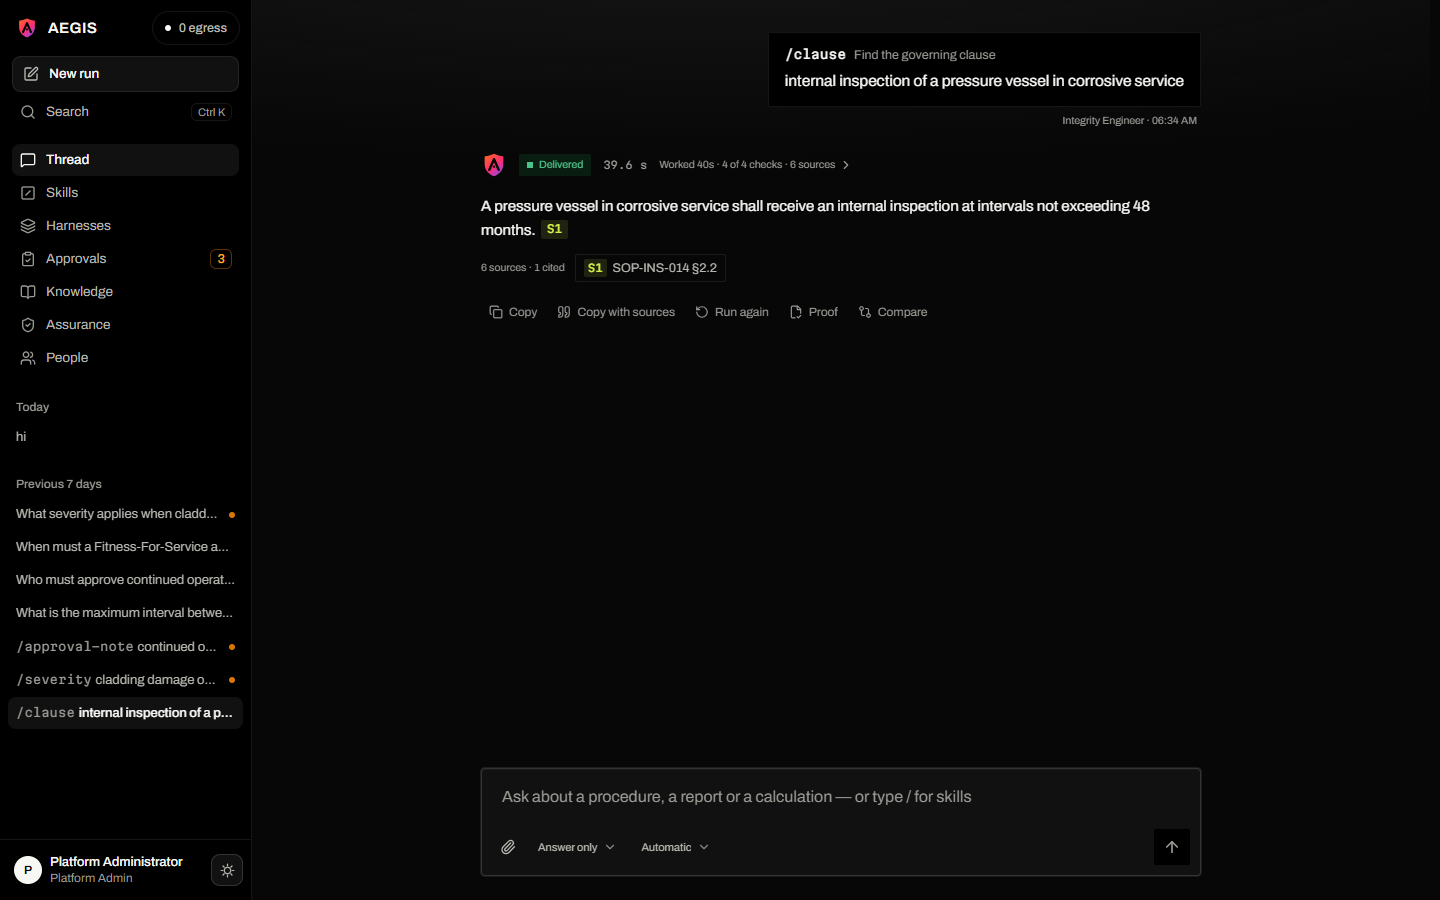
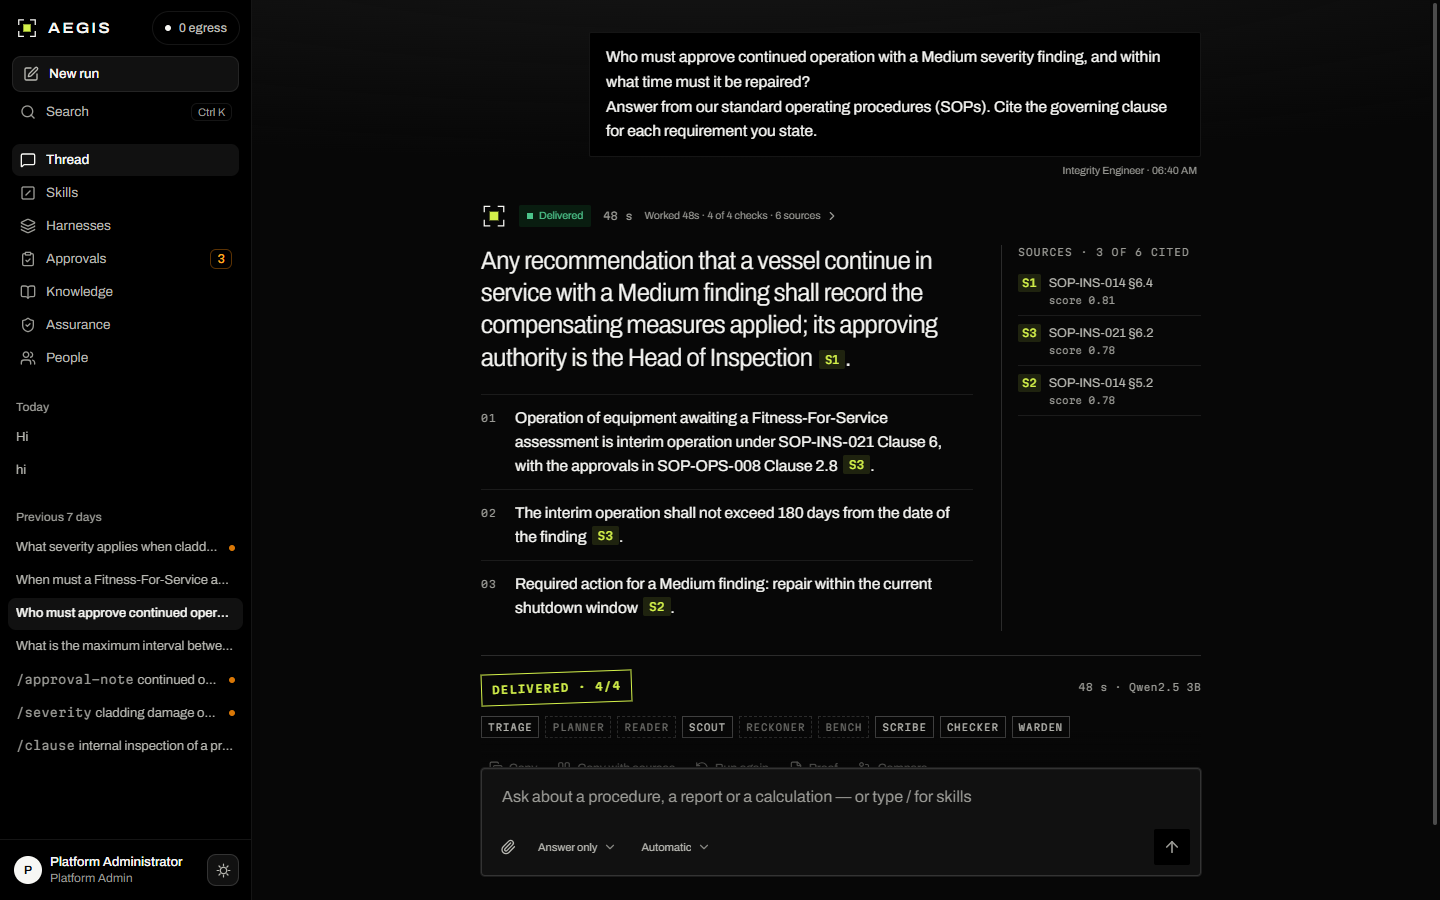
Landing reads as chapters: numbered nav follows the scroll, a reading line, tighter sections, a Hi-Vis close, fresh screenshots

diff --git a/frontend/app/(marketing)/landing.css b/frontend/app/(marketing)/landing.css
@@ -23,7 +23,7 @@
 /* ==================================================================== */
 @layer components {
   /* ---- tokens ---------------------------------------------------------- */
-  .lp {
+  .lp { counter-reset: lp-chapter;
     --lp-bg: #070707;
     --lp-s0: #000000;
     --lp-s1: #111111;
@@ -114,6 +114,11 @@
     transition: color var(--lp-tick) ease;
   }
   .lp-nav a:hover, .lp-nav-link:hover { color: var(--lp-fg); }
+  .lp-nav a .n { margin-right: 7px; color: var(--lp-fg-3); transition: color 0.2s ease; }
+  .lp-nav a[aria-current] { color: var(--lp-fg); }
+  .lp-nav a[aria-current] .n { color: var(--lp-lime); }
+  /* Reading progress: the header's foot fills in lime as the page is read. */
+  .lp-progress { position: absolute; left: 0; right: 0; bottom: 0; height: 1px; background: var(--lp-lime); transform-origin: left; transform: scaleX(0); pointer-events: none; }
   .lp-header .end { margin-left: auto; display: flex; align-items: center; gap: 20px; }
   @media (max-width: 1080px) { .lp-nav { display: none; } }
   @media (max-width: 420px) { .lp-header .end .lp-nav-link { display: none; } }
@@ -212,7 +217,8 @@
   /* ==================================================================== */
   /* SECTIONS, AND THE CHAPTER RULE BETWEEN THEM                           */
   /* ==================================================================== */
-  .lp-section { position: relative; padding-block: clamp(72px, 9vw, 128px); scroll-margin-top: 64px; }
+  .lp-section { position: relative; padding-block: clamp(56px, 6vw, 88px); scroll-margin-top: 64px; counter-increment: lp-chapter; }
+  .lp-section .lp-head .lp-eyebrow::before { content: counter(lp-chapter, decimal-leading-zero) ' / 04 · '; color: var(--lp-fg-3); }
   .lp-rule {
     position: absolute; top: 0; left: 50%; display: grid; grid-template-columns: repeat(12, minmax(0, 1fr));
     width: min(calc(100% - 2 * var(--lp-pad)), calc(var(--lp-maxw) - 2 * var(--lp-pad))); height: 1px; transform: translateX(-50%);
@@ -241,7 +247,7 @@
   /* THE PROOF SEQUENCE                                                    */
   /* ==================================================================== */
   .lp-pf { margin: clamp(40px, 5vw, 64px) 0 0; padding: 0; list-style: none; }
-  .lp-pf .step { display: grid; grid-template-columns: minmax(0, 4fr) minmax(0, 8fr); gap: 32px clamp(24px, 4vw, 56px); padding: clamp(32px, 4vw, 48px) 0; border-top: 1px solid var(--lp-line); }
+  .lp-pf .step { display: grid; grid-template-columns: minmax(0, 4fr) minmax(0, 8fr); gap: 24px clamp(24px, 4vw, 56px); padding: clamp(24px, 3vw, 36px) 0; border-top: 1px solid var(--lp-line); }
   .lp-pf .cap .k { margin: 0; font-family: var(--font-mono); font-size: 11px; letter-spacing: 0.12em; text-transform: uppercase; color: var(--lp-fg-3); }
   .lp-pf .cap .k span { margin-right: 8px; color: var(--lp-lime); }
   .lp-pf .cap .h { margin: 12px 0 0; font-size: clamp(1.6rem, 1.1rem + 1.2vw, 2.1rem); line-height: 1.08; color: var(--lp-fg); }
@@ -462,12 +468,23 @@
   .lp-footer-base { display: flex; flex-wrap: wrap; justify-content: space-between; gap: 8px 24px; padding-block: 16px; border-top: 1px solid var(--lp-line-3); font-family: var(--font-mono); font-size: 10px; letter-spacing: 0.08em; text-transform: uppercase; color: var(--lp-fg-3); }
   /* The name at 6% ink, sized to the viewport so the whole word always fits,
      fading into the ground towards its foot. */
-  .lp-giant { display: flex; justify-content: center; margin-top: clamp(4px, 1vw, 16px); overflow: hidden; pointer-events: none; user-select: none; }
-  .lp-giant span {
-    display: block; font-size: min(20.5vw, 17rem); font-weight: 800; font-stretch: 125%; font-variation-settings: 'wdth' 125; line-height: 0.8; letter-spacing: -0.02em; white-space: nowrap;
+  .lp-giant { position: relative; display: flex; justify-content: center; margin-top: clamp(4px, 1vw, 16px); overflow: hidden; pointer-events: none; user-select: none; }
+  .lp-giant .word {
+    position: relative; display: block; font-size: min(19vw, 16rem); font-weight: 800; font-stretch: 125%; font-variation-settings: 'wdth' 125; line-height: 0.8; letter-spacing: -0.02em; white-space: nowrap;
     color: rgb(247 247 244 / 0.06);
     -webkit-mask-image: linear-gradient(to bottom, #000 35%, transparent 100%); mask-image: linear-gradient(to bottom, #000 35%, transparent 100%);
   }
+  /* The seal: the mark's lime square, set as the word's full stop. */
+  .lp-giant .seal { display: inline-block; width: 0.14em; height: 0.14em; margin-left: 0.05em; background: var(--lp-lime); opacity: 0.55; vertical-align: baseline; }
+  .lp-giant .scan { position: absolute; left: 0; right: 0; top: 0; height: 1px; background: var(--lp-lime); opacity: 0; box-shadow: 0 -24px 32px 0 rgb(212 242 74 / 0.08); }
+  /* The close: the claim once more and the one action, on the page's rule. */
+  .lp-close { display: flex; flex-wrap: wrap; align-items: center; justify-content: space-between; gap: 20px 32px; padding-block: clamp(40px, 5vw, 64px); border-bottom: 1px solid var(--lp-line); }
+  .lp-close-title { margin: 0; font-size: clamp(2rem, 1.2rem + 2.6vw, 3.4rem); font-weight: 300; font-stretch: 88%; font-variation-settings: 'wdth' var(--lp-display-wdth); line-height: 1; letter-spacing: -0.035em; color: var(--lp-fg); }
+  .lp-close-title b { font-weight: 600; }
+  .lp-footer-grid a .out { display: inline-block; width: 12px; height: 12px; margin-left: 3px; vertical-align: -1px; opacity: 0.5; transition: opacity var(--lp-tick) ease, transform var(--lp-tick) ease; }
+  .lp-footer-grid a:hover .out { opacity: 1; transform: translate(1px, -1px); }
+  .lp-footer-grid a { text-decoration: underline; text-decoration-color: transparent; text-underline-offset: 3px; }
+  .lp-footer-grid a:hover { text-decoration-color: var(--lp-lime); }
   @media (max-width: 1000px) { .lp-footer-grid { grid-template-columns: repeat(2, minmax(0, 1fr)); } .lp-footer-grid > .brand { grid-column: 1 / -1; } }
   @media (max-width: 420px) { .lp-footer-grid { gap: 32px 20px; } }
 
@@ -664,3 +681,18 @@
 .lp .ae-btn:focus-visible { box-shadow: none; outline: 2px solid var(--lp-lime); outline-offset: 3px; }
 .lp .ae-tamper-block { border-radius: 2px; border-color: var(--lp-line); background: var(--lp-s0); }
 .lp .ae-tamper-link i { background: var(--lp-lime); }
+
+@layer components {
+  @media (prefers-reduced-motion: no-preference) {
+    .lp-giant[data-play='armed'] .seal { opacity: 0; }
+    .lp-giant[data-play='on'] .scan { animation: lp-giant-scan 1400ms cubic-bezier(0.65, 0, 0.35, 1) both; }
+    .lp-giant[data-play='on'] .seal { animation: lp-giant-seal 120ms steps(2, end) 1250ms both; }
+    @keyframes lp-giant-scan {
+      0% { top: 0; opacity: 0; }
+      10% { opacity: 1; }
+      90% { opacity: 1; }
+      100% { top: 100%; opacity: 0; }
+    }
+    @keyframes lp-giant-seal { from { opacity: 0; } to { opacity: 0.55; } }
+  }
+}

diff --git a/frontend/components/landing/landing-header.tsx b/frontend/components/landing/landing-header.tsx
@@ -12,18 +12,47 @@ import { Wordmark } from './wordmark'
  * Clear while the page is at its top; a near-opaque ground and a 1px rule
  * once anything has scrolled under it. No backdrop blur: a blurred sticky bar
  * repaints on every scroll frame.
+ *
+ * The page reads as chapters, and the header says which one is on screen:
+ * the anchors carry their chapter number and the current one is lit, and a
+ * 1px lime line along the header's foot fills as the page is read. Both
+ * follow the reader's own scroll, so neither moves on its own.
  */
 export function LandingHeader() {
   // `authenticated` is false on the server render and during the first load,
   // so the labels a cold visitor needs are the default.
   const { authenticated } = useRole()
   const [scrolled, setScrolled] = useState(false)
+  const [progress, setProgress] = useState(0)
+  const [current, setCurrent] = useState<string | null>(null)
 
   useEffect(() => {
-    const onScroll = () => setScrolled(window.scrollY > 8)
-    onScroll()
+    let frame = 0
+    const read = () => {
+      frame = 0
+      setScrolled(window.scrollY > 8)
+      const max = document.documentElement.scrollHeight - window.innerHeight
+      setProgress(max > 0 ? Math.min(1, window.scrollY / max) : 0)
+      // The chapter whose top has passed a third of the way down the screen.
+      const line = window.innerHeight / 3
+      let on: string | null = null
+      for (const item of NAV) {
+        const el = document.getElementById(item.href.slice(1))
+        if (el && el.getBoundingClientRect().top <= line) on = item.href
+      }
+      setCurrent(on)
+    }
+    const onScroll = () => {
+      if (!frame) frame = requestAnimationFrame(read)
+    }
+    read()
     window.addEventListener('scroll', onScroll, { passive: true })
-    return () => window.removeEventListener('scroll', onScroll)
+    window.addEventListener('resize', onScroll)
+    return () => {
+      window.removeEventListener('scroll', onScroll)
+      window.removeEventListener('resize', onScroll)
+      if (frame) cancelAnimationFrame(frame)
+    }
   }, [])
 
   return (
@@ -34,8 +63,11 @@ export function LandingHeader() {
         </Link>
 
         <nav aria-label="Sections" className="lp-nav">
-          {NAV.map((item) => (
-            <a key={item.href} href={item.href}>
+          {NAV.map((item, i) => (
+            <a key={item.href} href={item.href} aria-current={current === item.href ? 'location' : undefined}>
+              <span className="n" aria-hidden>
+                {String(i + 1).padStart(2, '0')}
+              </span>
               {item.label}
             </a>
           ))}
@@ -52,6 +84,7 @@ export function LandingHeader() {
           </Link>
         </div>
       </div>
+      <span aria-hidden className="lp-progress" style={{ transform: `scaleX(${progress})` }} />
     </header>
   )
 }

diff --git a/frontend/components/landing/landing-footer.tsx b/frontend/components/landing/landing-footer.tsx
@@ -1,16 +1,24 @@
 import Link from 'next/link'
-import { FOOTER } from './copy'
+import { ArrowUpRight } from 'lucide-react'
+import { FOOTER, HERO } from './copy'
 import { recordedEgress } from './landing-data'
 import { EgressChip } from './live-egress'
+import { FooterGiant } from './footer-giant'
 import { Wordmark } from './wordmark'
 
 /**
- * The page's close: a brand column and four columns of links on 1px rules,
- * a thin base row, and the name set huge at 6% ink, fading into the ground.
+ * The page's close, in the Hi-Vis voice.
+ *
+ * First the last word: the hero's claim once more, light with its key word
+ * heavy, and the one lime action. Then a brand column and four columns of
+ * links on 1px rules, a thin base row, and the name set huge at 6% ink with
+ * a lime seal, which the hero's scan line crosses once when it comes into
+ * view -- the page ends on the motion it began with.
  *
  * Every link resolves: the anchors are this page's sections, and every
- * GitHub link is a file checked on the branch it names (copy.ts). The chip is
- * the hero's egress reading, read live by the visitor's browser.
+ * GitHub link is a file checked on the branch it names (copy.ts); those
+ * leave the page and carry an arrow saying so. The chip is the hero's
+ * egress reading, read live by the visitor's browser.
  *
  * Not SiteFooter, which calls an authenticated health endpoint. There is no
  * theme switch: the public page is drawn on one ground, hi-vis night, whatever
@@ -20,6 +28,18 @@ export function LandingFooter() {
   return (
     <footer className="lp-footer">
       <div className="lp-shell">
+        <div className="lp-close">
+          <p className="lp-close-title">
+            {FOOTER.close.title} <b>{FOOTER.close.titleKey}</b>
+          </p>
+          <Link href={HERO.primary.href} className="lp-btn primary">
+            {HERO.primary.label}
+            <span className="ar" aria-hidden>
+              →
+            </span>
+          </Link>
+        </div>
+
         <div className="lp-footer-grid">
           <div className="brand">
             <Wordmark />
@@ -35,6 +55,7 @@ export function LandingFooter() {
                     {link.href.startsWith('http') ? (
                       <a href={link.href} rel="noreferrer" target="_blank">
                         {link.label}
+                        <ArrowUpRight className="out" aria-hidden />
                       </a>
                     ) : link.href.startsWith('#') ? (
                       <a href={link.href}>{link.label}</a>
@@ -53,9 +74,7 @@ export function LandingFooter() {
           <span>{FOOTER.bottomRight}</span>
         </div>
       </div>
-      <div className="lp-giant" aria-hidden>
-        <span>{FOOTER.giant}</span>
-      </div>
+      <FooterGiant word={FOOTER.giant} />
     </footer>
   )
 }

diff --git a/frontend/components/landing/footer-giant.tsx b/frontend/components/landing/footer-giant.tsx
@@ -1,0 +1,42 @@
+'use client'
+
+import { useEffect, useRef } from 'react'
+
+/**
+ * The name at 6% ink with a lime seal, closing the page. When it first comes
+ * into view the hero's scan line crosses it once, top to bottom, and the seal
+ * ticks on behind it: the page ends on the motion it opened with.
+ *
+ * Plays once. Without JavaScript, before hydration and under reduced motion,
+ * nothing is armed and CSS draws the finished frame: the word and its seal.
+ */
+export function FooterGiant({ word }: { word: string }) {
+  const root = useRef<HTMLDivElement>(null)
+
+  useEffect(() => {
+    const el = root.current
+    if (!el || typeof IntersectionObserver === 'undefined') return
+    if (!window.matchMedia('(prefers-reduced-motion: no-preference)').matches) return
+    el.dataset.play = 'armed'
+    const io = new IntersectionObserver(
+      ([entry]) => {
+        if (!entry.isIntersecting) return
+        el.dataset.play = 'on'
+        io.disconnect()
+      },
+      { threshold: 0.35 },
+    )
+    io.observe(el)
+    return () => io.disconnect()
+  }, [])
+
+  return (
+    <div ref={root} className="lp-giant" aria-hidden>
+      <span className="word">
+        {word}
+        <i className="seal" />
+      </span>
+      <i className="scan" />
+    </div>
+  )
+}

diff --git a/frontend/features/harness/ui/report-panel.tsx b/frontend/features/harness/ui/report-panel.tsx
@@ -238,14 +238,14 @@ export function ReportPanel({
                   >
                     <Ledger className="text-foreground-secondary">{file.format}</Ledger>
                     <span className="flex min-w-0 flex-col gap-0.5">
-                      <span className="truncate font-mono text-meta text-foreground">{file.filename}</span>
+                      <span className="break-all font-mono text-meta text-foreground" title={file.filename}>{file.filename}</span>
                       {/* SEAL: the report released, when it is written or when
                           a reviewer releases it. A version held for sign-off
                           shows the dashed rule, because it is not released. */}
                       <CopyValue
                         label={`${file.format} sha256`}
                         value={file.sha256}
-                        display={`sha256 ${file.sha256.slice(0, 24)}…`}
+                        display={`sha256 ${file.sha256.slice(0, 12)}…`}
                         seal={{
                           sealed: record.released,
                           srLabel: record.released ? 'report file hash, released' : 'report file hash, not released',

diff --git a/frontend/app/(marketing)/page.tsx b/frontend/app/(marketing)/page.tsx
@@ -44,10 +44,10 @@ const GALLERY: GallerySlide[] = [
     id: 'thread',
     label: 'Thread',
     title: 'Ask in plain language.',
-    body: 'A run reads like a terminal session: each step with its time, the passages it found, the model’s tokens and the checks, then the cited answer.',
+    body: 'Ask in plain words. The answer comes back as a brief: one cited line up top, each requirement numbered with its source, and a stamp once every check has passed.',
     light: '/landing/shots/thread-light.png',
     dark: '/landing/shots/thread-dark.png',
-    alt: 'The AEGIS thread: a /clause request delivered in 39.6 s with four of four checks passed, and the answer citing S1, SOP-INS-014 §2.2.',
+    alt: 'The AEGIS thread: a question on continued operation with a Medium finding, delivered in 48 s with four of four checks passed; the answer opens with its cited lede, lists three numbered claims with their sources in the margin, and is stamped Delivered.',
   },
   {
     id: 'skills',

diff --git a/frontend/components/landing/copy.ts b/frontend/components/landing/copy.ts
@@ -193,6 +193,7 @@ export const NAV = [
 const onGitHub = (path: string, branch: 'main' | 'redesign/hi-vis' = 'main') => `${REPO_URL}/blob/${branch}/${path}`
 
 export const FOOTER = {
+  close: { title: 'Answers your plant can', titleKey: 'prove.' },
   blurb: 'An air-gapped AI workbench for regulated industrial work. Every answer cited, checked and recorded on the machine it ran on.',
   columns: [
     {
@@ -222,7 +223,7 @@ export const FOOTER = {
         { label: 'The sandbox', href: onGitHub('docs/handbook/09-security/03-sandbox.md') },
         // GitHub's anchor for "⚠ Limitations" keeps the emoji's variation selector.
         { label: 'Known limits', href: `${REPO_URL}#%EF%B8%8F-limitations` },
-        { label: 'What verification cannot catch', href: onGitHub('docs/handbook/08-verification/05-limits.md') },
+        { label: 'Verification limits', href: onGitHub('docs/handbook/08-verification/05-limits.md') },
       ],
     },
     {
